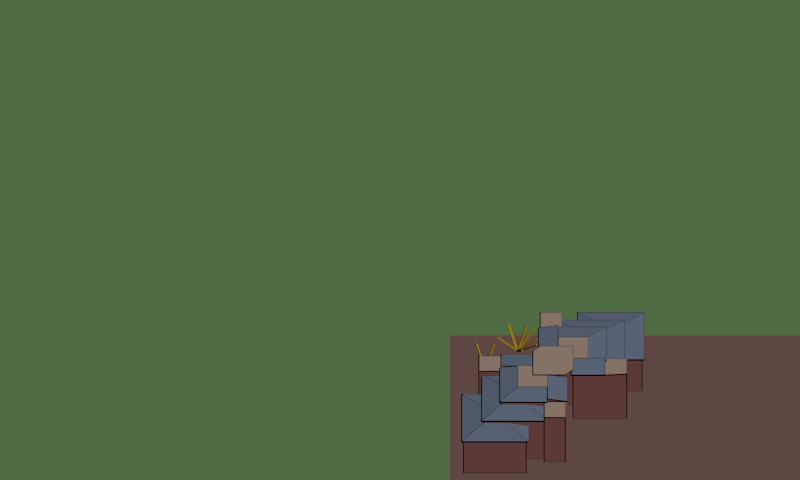
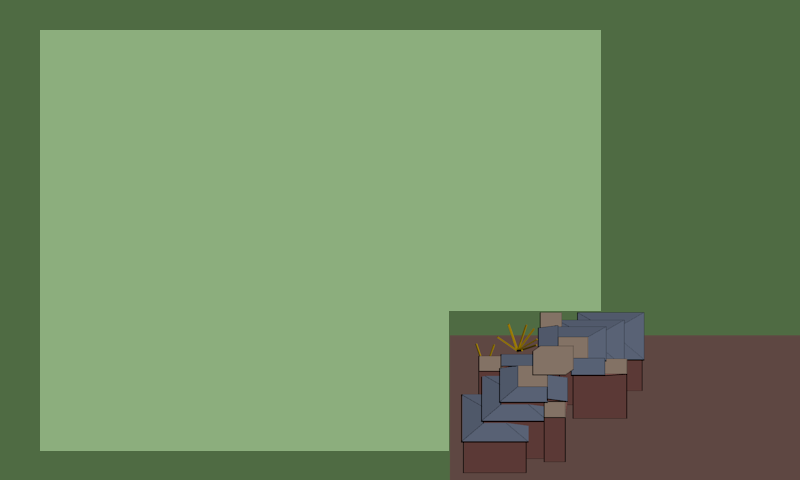
Added sprites for new towers.  Changed background a bit to show placeable areas.  Made it so Enemies become partly transparent when they've "died." Created game actions for placing slow towers and yell towers.

diff --git a/VSProject/SaveCISE_Game/SaveCISE_Game/SaveCISE_Game/Enemy.cs b/VSProject/SaveCISE_Game/SaveCISE_Game/SaveCISE_Game/Enemy.cs
@@ -36,6 +36,7 @@ namespace SaveCISE_Game
         float frameSpeed = 0.1f;
         int framesPerDirection;
         directions bearing;
+        private Color myColor = Color.White;
 
        /*public Enemy( Sprite sprite ) : base(sprite)
         {
@@ -60,6 +61,11 @@ namespace SaveCISE_Game
             this.trueX = x;
             this.trueY = y;
             base.setLocation(x, y);
+        }
+
+        public override void draw(Microsoft.Xna.Framework.Graphics.SpriteBatch sb)
+        {
+            base.draw(sb, myColor);
         }
 
         public override void update()
@@ -149,6 +155,15 @@ namespace SaveCISE_Game
 
         private void doAnimation()
         {
+            if (!checkAlive())
+            {
+                if (myColor == Color.White)
+                {
+                    float alpha = 0.4f;
+                    Vector3 components = myColor.ToVector3();
+                    myColor = new Color(components.X * alpha, components.Y * alpha, components.Z * alpha, alpha);
+                }
+            }
             frame += frameSpeed;
             if (frame >= framesPerDirection)
             {

diff --git a/VSProject/SaveCISE_Game/SaveCISE_Game/SaveCISE_Game/Tower.cs b/VSProject/SaveCISE_Game/SaveCISE_Game/SaveCISE_Game/Tower.cs
@@ -173,18 +173,21 @@ namespace SaveCISE_Game
                     this.targetingRange = 150;
                     this.fireRateSecs = 2;
                     this.damageDealt = 5;
+                    this.setSprite(new Sprite(ContentStore.getTexture("spr_yell")));
                     break;
 
                 case towerTypes.SLOW:
                     this.targetingRange = 150;
                     this.fireRateSecs = 2;
                     this.damageDealt = 5;
+                    this.setSprite(new Sprite(ContentStore.getTexture("spr_slow")));
                     break;
 
                 case towerTypes.BLOCK:
                     this.targetingRange = 0;
                     this.fireRateSecs = 0;
                     this.damageDealt = 0;
+                    this.setSprite(new Sprite(ContentStore.getTexture("spr_blockTower")));
                     break;
             }
         }

diff --git a/VSProject/SaveCISE_Game/SaveCISE_Game/SaveCISE_Game/GameController.cs b/VSProject/SaveCISE_Game/SaveCISE_Game/SaveCISE_Game/GameController.cs
@@ -109,9 +109,9 @@ namespace SaveCISE_Game
             gameScene.add(tower2);
             gameScene.add(tower3);
             tower1.setMouseReleasedAction(new PlaceWallTowerGameAction());
-            tower2.setMouseReleasedAction(new PlaceWallTowerGameAction());
-                    tower2.setActive(false);// just to demonstrate
-            tower3.setMouseReleasedAction(new PlaceWallTowerGameAction());
+            tower2.setMouseReleasedAction(new PlaceYellTowerGameAction());
+                    //tower2.setActive(false);// just to demonstrate
+            tower3.setMouseReleasedAction(new PlaceSlowTowerGameAction());
 
 
             // hero towers

diff --git a/VSProject/SaveCISE_Game/SaveCISE_Game/SaveCISE_Game/PlaceSlowTowerGameAction.cs b/VSProject/SaveCISE_Game/SaveCISE_Game/SaveCISE_Game/PlaceSlowTowerGameAction.cs
@@ -1,0 +1,15 @@
+using System;
+using System.Collections.Generic;
+using System.Linq;
+using System.Text;
+
+namespace SaveCISE_Game
+{
+    class PlaceSlowTowerGameAction : GameAction
+    {
+        public override void doAction()
+        {
+            GameController.beginPlacingTower(towerTypes.SLOW);
+        }
+    }
+}

diff --git a/VSProject/SaveCISE_Game/SaveCISE_Game/SaveCISE_Game/PlaceYellTowerGameAction.cs b/VSProject/SaveCISE_Game/SaveCISE_Game/SaveCISE_Game/PlaceYellTowerGameAction.cs
@@ -1,0 +1,15 @@
+using System;
+using System.Collections.Generic;
+using System.Linq;
+using System.Text;
+
+namespace SaveCISE_Game
+{
+    class PlaceYellTowerGameAction : GameAction
+    {
+        public override void doAction()
+        {
+            GameController.beginPlacingTower(towerTypes.HARM);
+        }
+    }
+}
